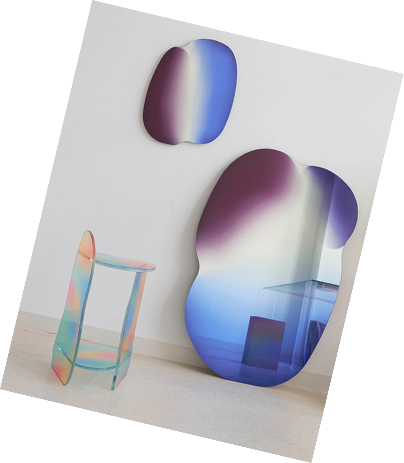
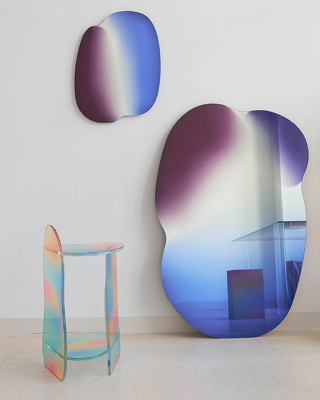
sec_6 end

diff --git a/index.html b/index.html
@@ -241,9 +241,9 @@
                 <h2>ACCESSORIES</h2>
                 <h5>공간을 완성하는 마지막 한 조각<br>
                 빛과 텍스처로 그리는 <span class="sec_4_point">위키노 라이프 스타일</span></h5>
-                <div class="btn_4">
+                <div class="btn">
                     <a href="#">
-                        <div class="arrow_4">
+                        <div class="arrow">
                             <svg width="7" height="12" viewBox="0 0 7 12" fill="none" xmlns="http://www.w3.org/2000/svg">
                             <path d="M5.17261 6.00368L0.243678 1.35873C0.0760276 1.20074 -0.00511529 1.01367 0.000249527 0.797542C0.00561435 0.58141 0.0923456 0.394559 0.260443 0.236989C0.428541 0.0794187 0.627039 0.000422987 0.855938 1.67606e-06C1.08484 -0.000419634 1.28311 0.0785761 1.45076 0.236989L6.59764 5.10312C6.73176 5.22952 6.83235 5.37171 6.89941 5.5297C6.96647 5.68769 7 5.84568 7 6.00368C7 6.16167 6.96647 6.31966 6.89941 6.47765C6.83235 6.63564 6.73176 6.77783 6.59764 6.90423L1.434 11.7704C1.26635 11.9284 1.07075 12.0048 0.84722 11.9998C0.623686 11.9947 0.428094 11.913 0.260443 11.7546C0.0927927 11.5961 0.00896737 11.4091 0.00896737 11.1934C0.00896737 10.9777 0.0927927 10.7908 0.260443 10.6328L5.17261 6.00368Z" fill="white"/>
                             </svg>
@@ -293,8 +293,45 @@
             </div>
 
         </section>
-
         <!-- sec_5 end -->
+
+        <section class="sec_6">
+
+            <div class="title_wrap_6">
+                <h2>
+                    WIKINO <br>
+                    WI ··  TH
+                </h2>
+            </div>
+
+            <div class="con_wrap_6">
+
+                <div class="con_6 left_6">
+                    <a href="#">
+                        <img src="img/sec_6/shelf.png" alt="위키노 shelf">
+                    </a>
+                </div>
+                <div class="con_6 right_6">
+                    <a href="#">
+                        <img src="img/sec_6/mirror.png" alt="위키노 mirror">
+                    </a>
+                </div>
+
+            </div>
+
+            <div class="btn">
+                    <a href="#">
+                        <div class="arrow">
+                            <svg width="7" height="12" viewBox="0 0 7 12" fill="none" xmlns="http://www.w3.org/2000/svg">
+                            <path d="M5.17261 6.00368L0.243678 1.35873C0.0760276 1.20074 -0.00511529 1.01367 0.000249527 0.797542C0.00561435 0.58141 0.0923456 0.394559 0.260443 0.236989C0.428541 0.0794187 0.627039 0.000422987 0.855938 1.67606e-06C1.08484 -0.000419634 1.28311 0.0785761 1.45076 0.236989L6.59764 5.10312C6.73176 5.22952 6.83235 5.37171 6.89941 5.5297C6.96647 5.68769 7 5.84568 7 6.00368C7 6.16167 6.96647 6.31966 6.89941 6.47765C6.83235 6.63564 6.73176 6.77783 6.59764 6.90423L1.434 11.7704C1.26635 11.9284 1.07075 12.0048 0.84722 11.9998C0.623686 11.9947 0.428094 11.913 0.260443 11.7546C0.0927927 11.5961 0.00896737 11.4091 0.00896737 11.1934C0.00896737 10.9777 0.0927927 10.7908 0.260443 10.6328L5.17261 6.00368Z" fill="white"/>
+                            </svg>
+                        </div>
+                        <h6>About Us</h6>
+                    </a>
+            </div>
+
+        </section>
+        <!-- sec_6 end -->
         
 
     </div>

diff --git a/css/style.css b/css/style.css
@@ -291,7 +291,7 @@ header{
     color: #1d1d1d;
 }
 
-.btn_4 a{
+.btn a{
     margin-top: 70px;
     display: flex;
     align-items: center;
@@ -299,7 +299,7 @@ header{
     gap: 20px;
 }
 
-.arrow_4{
+.arrow{
     margin-top: 3px;
     width: 33px;
     height: 33px;
@@ -309,13 +309,13 @@ header{
     padding-left: 2px;
 }
 
-.btn_4 h6{
+.btn h6{
     opacity: 0.7;
     transition: 0.5s;
     font-size: 22px;
 }
 
-.btn_4:hover h6{
+.btn:hover h6{
     opacity: 1;
 }
 /* sec_4 end */
@@ -367,3 +367,69 @@ header{
     transform: translate(-50%, -50%) scale(1);
 }
 /* sec_5 end */
+
+.sec_6{
+    position: relative;
+}
+
+.title_wrap_6 {
+    text-align: center;
+}
+
+.title_wrap_6 h2{
+    font-size: 380px;
+    line-height: 350px;
+    letter-spacing: -0.08em;
+}
+
+.con_wrap_6{
+    display: flex;
+}
+
+.con_6{
+    width: 300px;
+}
+
+.left_6{
+    position: absolute;
+    top: 50%;
+    left: 36%;
+    z-index: 30;
+    box-shadow: 10px 15px 20px 5px rgba(0, 0, 0, 0.1);
+    transform: rotate(-15.22deg);
+    transition: 0.5s;
+}
+
+.right_6{
+    position: absolute;
+    top: 58%;
+    right: 36%;
+    box-shadow: 10px 15px 20px 5px rgba(0, 0, 0, 0.1);
+    transform: rotate(13.33deg);
+    transition: 0.5s;
+}
+
+.left_6:hover{
+    left: 40%;
+    transform: rotate(0deg);
+}
+.right_6:hover{
+    right: 40%;
+    z-index: 40;
+    transform: rotate(0deg);
+}
+
+.sec_6 .arrow{
+    margin-top: 3px;
+    width: 33px;
+    height: 33px;
+    background-color: #1d1d1d;
+    border-radius: 50%;
+    padding-top: 4px;
+    padding-left: 14px;
+}
+
+.sec_6 .btn{
+    margin-top: 120px;
+}
+/* sec_6 end */
